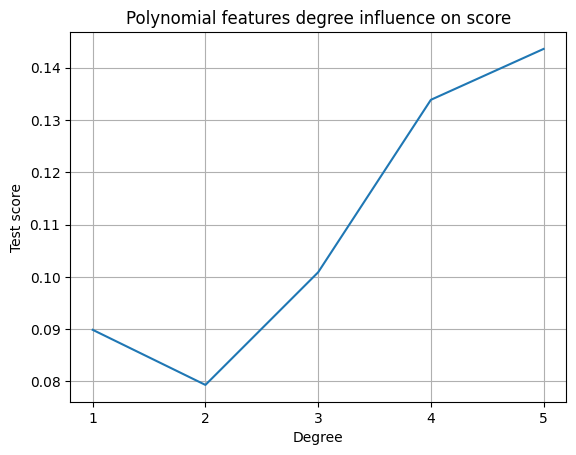
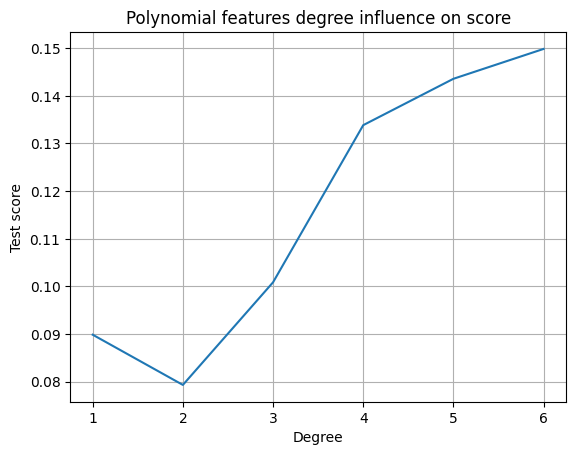
-

diff --git a/README.md b/README.md
@@ -126,25 +126,26 @@ During Exploratory Data Analysis several important discoveries were done:<br>
 ### 2. Preprocessing: feature generation and selection, handling imbalanced data
 
 Based on exploratory data analysis, initial dataset has been changed:
-- New features created: day, weekday, hour, industry_code and age
-- Not useful features were deleted: time, first, last, street, trans_num, unix_time, cc_num, dob, lat, long, merch_lat, merch_long, zip, city, job, merchant
-- Outliers were dropped or corrected by imputation with arbitrary value
+- New features created: day, weekday, hour, industry_code and age.
+- Not useful features were deleted: time, first, last, street, trans_num, unix_time, cc_num, dob, lat, long, merch_lat, merch_long, zip, city, job, merchant.
+- Outliers were dropped or corrected by imputation with arbitrary value.
 
-Resulting data set contained numeric and categorical features, which were treated separately. Categorical features were processed by MCA with 60 components resulting in approx. 90% variability saved. Numerical features were used for polynomial features generations of different degrees and tested for performance with logistic regression classifier. Best permorming set had degree 6 and was processed with PCA saving 99% of variance.
+Resulting data set contained numeric and categorical features, which were treated separately. Categorical features were processed by MCA with 60 components resulting in approx. 90% variability saved. Numerical features were used for polynomial features generation with different degrees and tested for performance with logistic regression classifier. Best permorming set had degree 6 and was processed with PCA saving 99% of variance.
 
 <p align="center">
 <img src="https://github.com/ArtemAntonov/Credit-Card-Transactions-Fraud-Detection/blob/main/img/20.png" width="400" height="300"/>
 <img src="https://github.com/ArtemAntonov/Credit-Card-Transactions-Fraud-Detection/blob/main/img/21.png" width="400" height="300"/>
 </p> 
 
-To improve target class balance in the dataset, several sampling algorithms were tested by different models. On the plot below you can see sum of 4 scores(f1, accuracy, precision and recall) which can show overall performance over resampled data.
-NearMiss algorithm performed the worst. Surprisingly there was almost no big difference between EditedNearestNeighbours, another undersampling algorithm, no sampling and various oversampling. Data without any sampling performed the best.
+To improve target class balance in the dataset, several sampling algorithms were tested by different models. On the plot below you can see sum of 4 scores(f1, accuracy, precision and recall) which can show overall performance on resampled data.<br/>
+NearMiss algorithm performed the worst. Surprisingly there was no big difference between EditedNearestNeighbours, another undersampling algorithm, no sampling and various oversampling. Data without any sampling got best scores.
 
 <p align="center">
 <img src="https://github.com/ArtemAntonov/Credit-Card-Transactions-Fraud-Detection/blob/main/img/22.png"/>
 </p>
 
-4 best performing on not resampled data classifiers were chosen for further model training: SVM, Nearest Neighbour, MLPC and Random Forest.
+4 best performing on not resampled data classifiers were chosen for further model training: SVM, Nearest Neighbour, MLPC and Random Forest.<br/>
+Plots below show train and test scores for data without sampling.
 
 <p align="center">
 <img src="https://github.com/ArtemAntonov/Credit-Card-Transactions-Fraud-Detection/blob/main/img/23.png"/>
